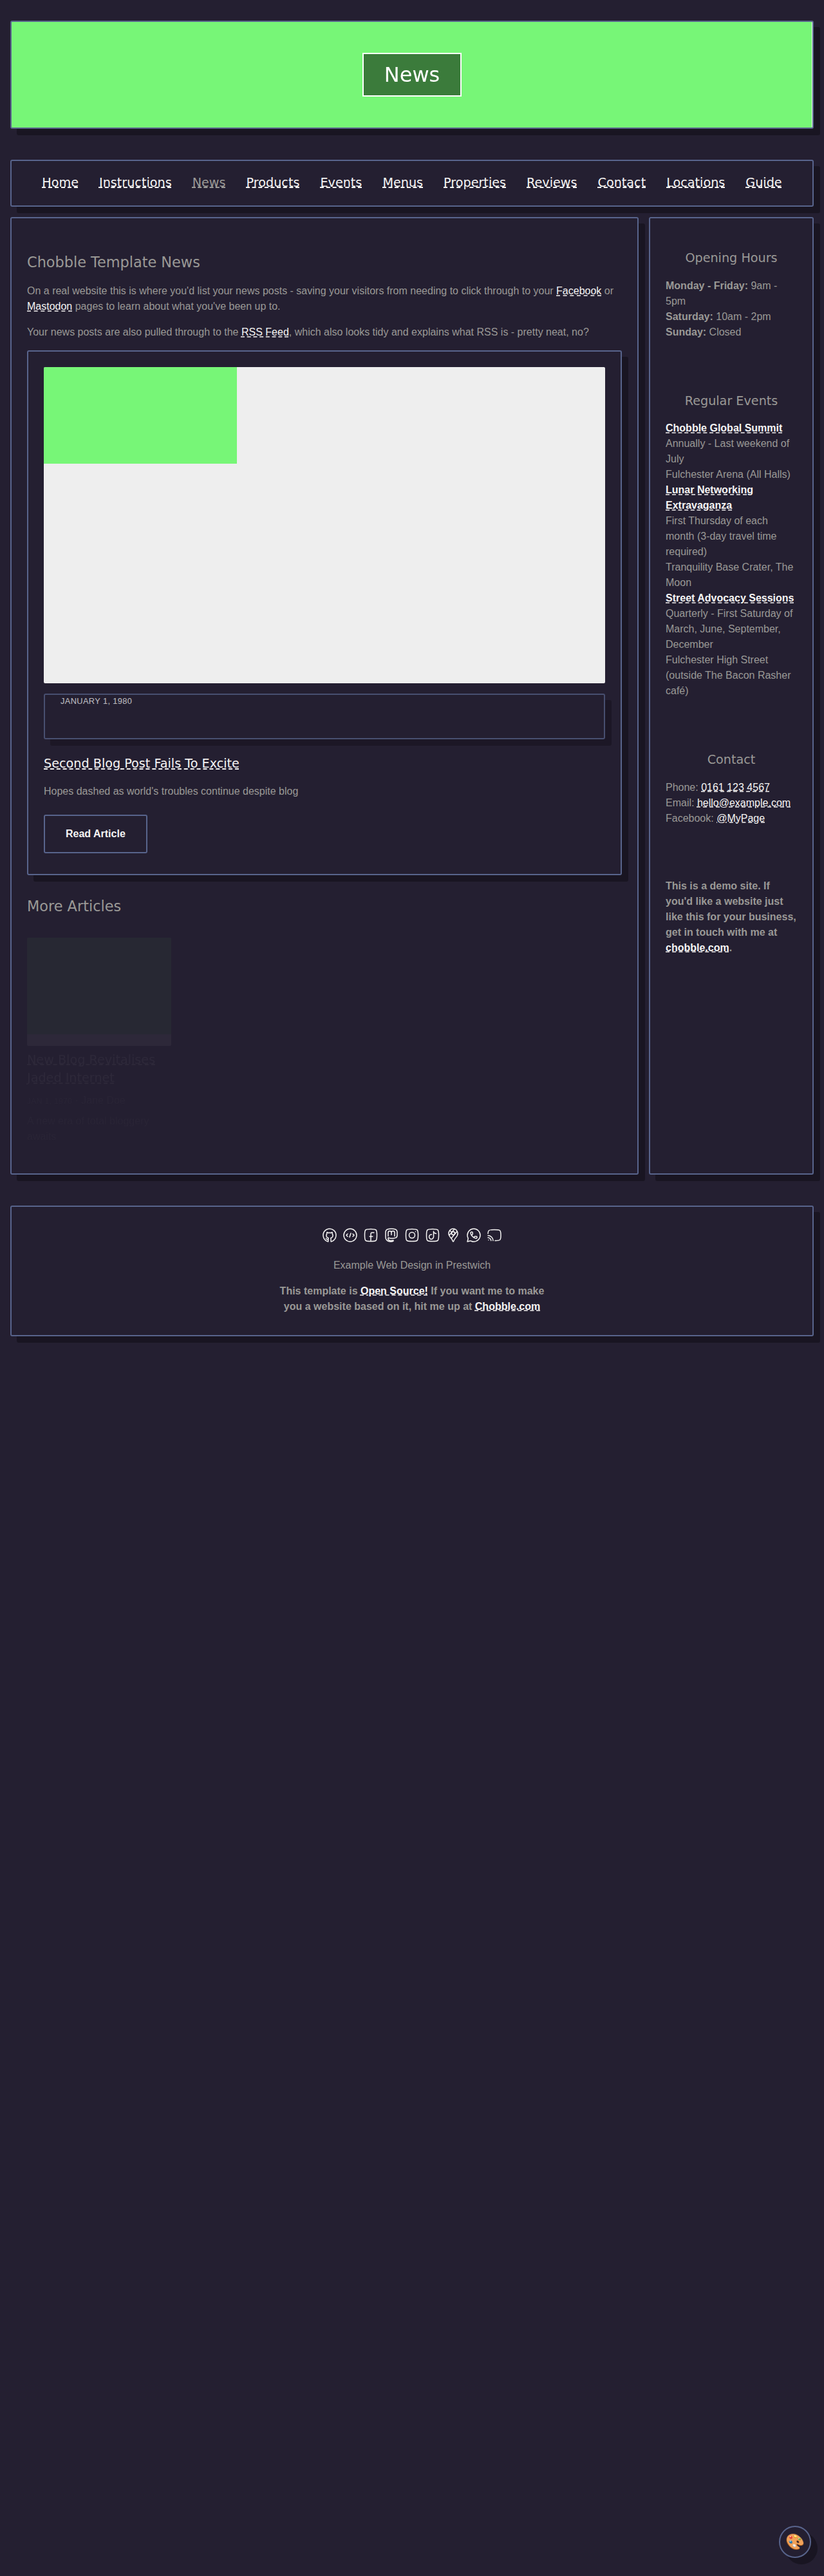
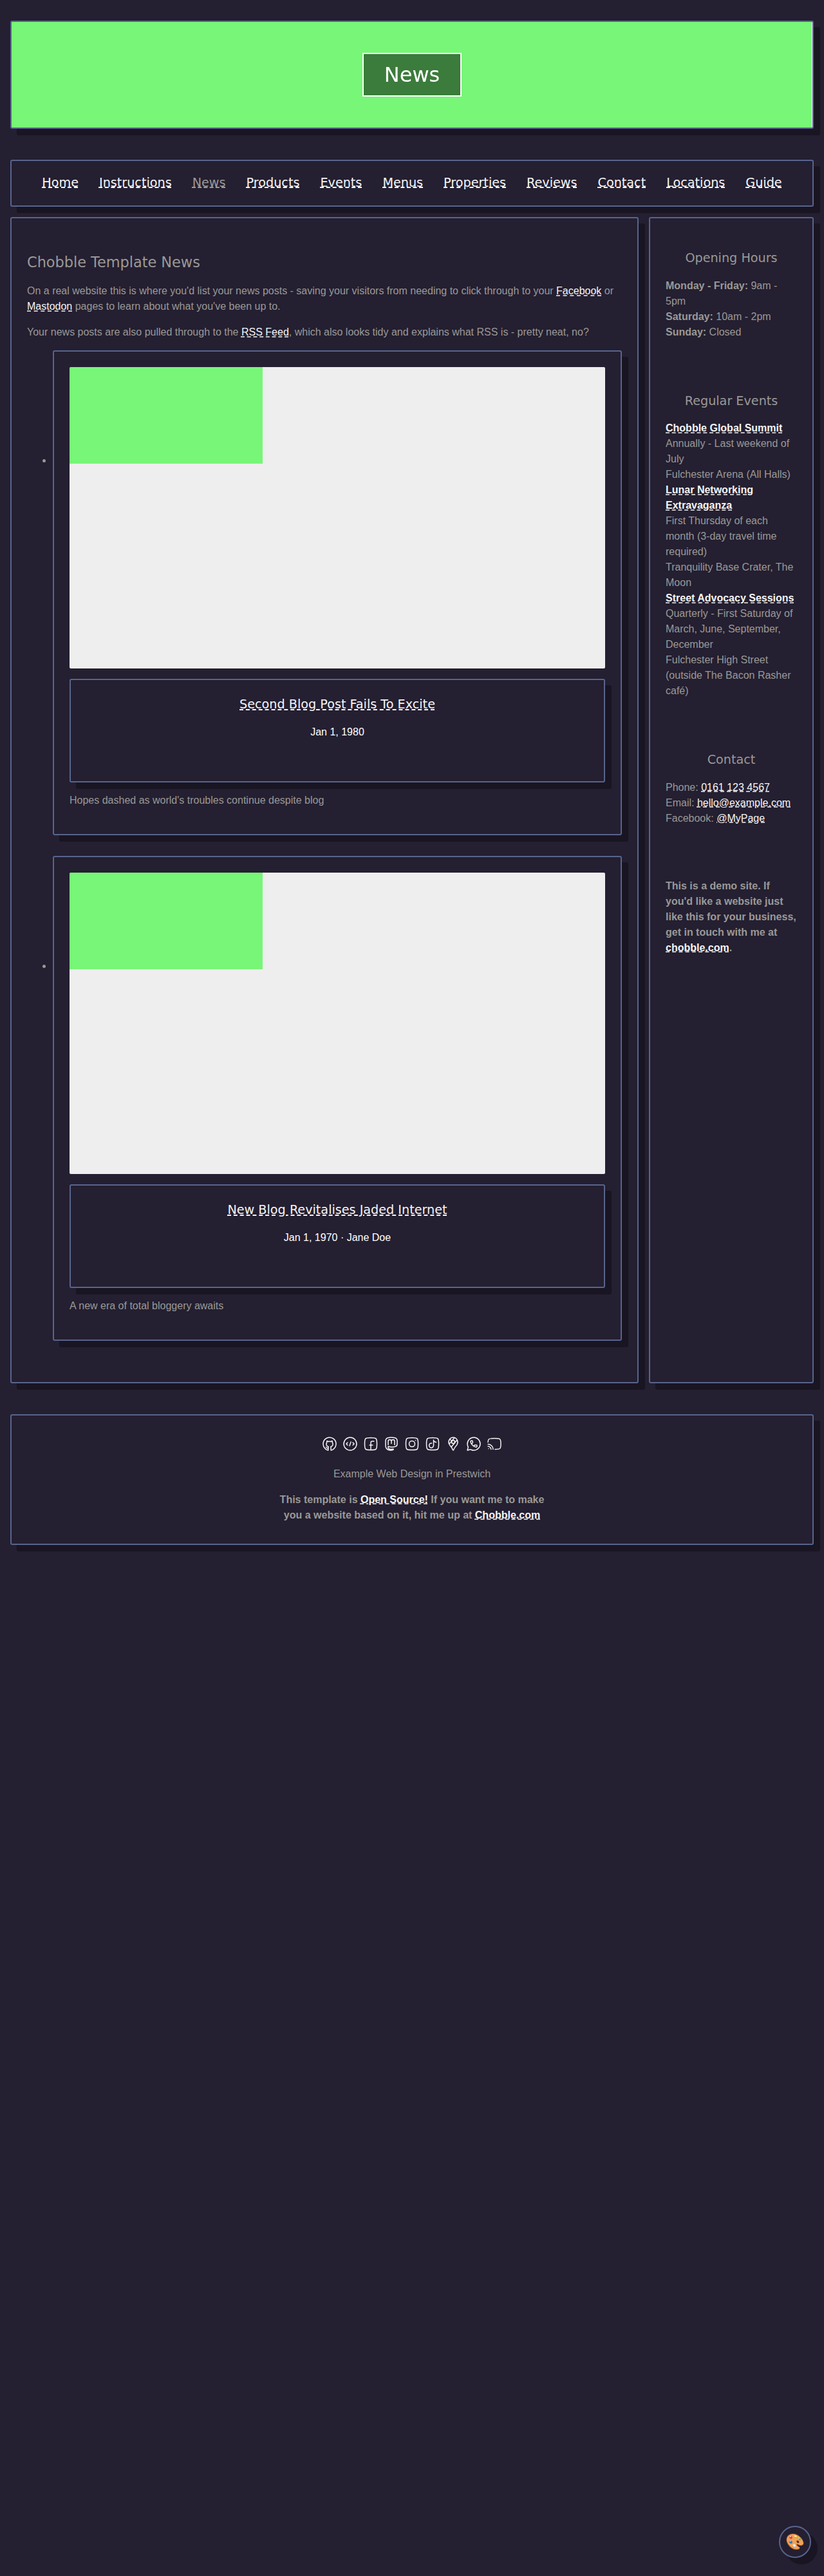
Add image-cards design-system component for news archive
- Create reusable image-cards component with edge-to-edge images
- Simplify news archive to render all posts as cards (no featured)
- Move component to design-system directory
- Remove separate _news.scss (replaced by design-system component)

Changed region(s): [[0.0312, 0.125, 0.75, 0.5312], [0.3438, 0.5625, 0.6562, 0.5938], [0.2812, 0.125, 0.3438, 0.1875]]

diff --git a/src/_layouts/news-archive.html b/src/_layouts/news-archive.html
@@ -8,63 +8,24 @@ layout: base
 
 {%- if posts.size > 0 -%}
   <div class="design-system">
-
-    {%- comment -%} Featured latest post {%- endcomment -%}
-    {%- assign featured = posts | first -%}
-    {%- if featured.data.authorSlug -%}
-      {%- assign featuredAuthor = collections.team | where: "fileSlug", featured.data.authorSlug | first -%}
-    {%- endif -%}
-
-    <article class="split" data-reveal>
-      {%- if featured.data.header_image -%}
-        <figure>
-          <a href="{{ featured.url }}#content">
-            {%- image featured.data.header_image, featured.data.header_text, "400, 600, 800, 1200", "", "", "16/9" -%}
-          </a>
-        </figure>
+  <ul class="image-cards">
+    {%- for post in posts -%}
+      {%- if post.data.authorSlug -%}
+        {%- assign postAuthor = collections.team | where: "fileSlug", post.data.authorSlug | first -%}
+      {%- else -%}
+        {%- assign postAuthor = nil -%}
       {%- endif -%}
-      <div>
-        <header>
-          <time datetime="{{ featured.date | date: '%Y-%m-%d' }}">
-            {{ featured.date | date: "%B %-d, %Y" }}
-          </time>
-          {%- if featuredAuthor -%}
-            <span aria-hidden="true">·</span>
-            <address>
-              <a rel="author" href="{{ featuredAuthor.url }}">
-                {{ featuredAuthor.data.title }}
-              </a>
-            </address>
-          {%- endif -%}
-        </header>
-        <h3>
-          <a href="{{ featured.url }}#content">{{ featured.data.header_text | escape }}</a>
-        </h3>
-        {%- if featured.data.subtitle and featured.data.subtitle != "" -%}
-          <p>{{ featured.data.subtitle | escape }}</p>
-        {%- endif -%}
-        <a href="{{ featured.url }}#content" class="button">Read Article</a>
-      </div>
-    </article>
 
-    {%- comment -%} Older posts grid {%- endcomment -%}
-    {%- assign older_posts = posts | slice: 1, 999 -%}
-    {%- if older_posts.size > 0 -%}
-      <h2>More Articles</h2>
-      <ul class="items">
-        {%- for post in older_posts -%}
-          {%- if post.data.authorSlug -%}
-            {%- assign postAuthor = collections.team | where: "fileSlug", post.data.authorSlug | first -%}
-          {%- else -%}
-            {%- assign postAuthor = nil -%}
+      <li>
+        <article data-reveal>
+          {%- if post.data.header_image -%}
+            <a href="{{ post.url }}#content">
+              <figure>
+                {%- image post.data.header_image, post.data.header_text, "300, 400, 600, 800", "", "", "16/9" -%}
+              </figure>
+            </a>
           {%- endif -%}
-
-          <li data-reveal>
-            {%- if post.data.header_image -%}
-              <a href="{{ post.url }}#content" class="image-link">
-                {%- image post.data.header_image, post.data.header_text, "200, 300, 400, 600", "", "", "4/3" -%}
-              </a>
-            {%- endif -%}
+          <header>
             <h3>
               <a href="{{ post.url }}#content">{{ post.data.header_text | escape }}</a>
             </h3>
@@ -72,14 +33,14 @@ layout: base
               <time datetime="{{ post.date | date: '%Y-%m-%d' }}">{{ post.date | date: "%b %-d, %Y" }}</time>
               {%- if postAuthor %} · {{ postAuthor.data.title }}{%- endif -%}
             </p>
-            {%- if post.data.subtitle and post.data.subtitle != "" -%}
-              <p>{{ post.data.subtitle | escape }}</p>
-            {%- endif -%}
-          </li>
-        {%- endfor -%}
-      </ul>
-    {%- endif -%}
-
+          </header>
+          {%- if post.data.subtitle and post.data.subtitle != "" -%}
+            <p>{{ post.data.subtitle | escape }}</p>
+          {%- endif -%}
+        </article>
+      </li>
+    {%- endfor -%}
+  </ul>
   </div>
 {%- else -%}
   <p>No news articles yet. Check back soon!</p>

diff --git a/src/css/design-system/_image-cards.scss b/src/css/design-system/_image-cards.scss
@@ -1,0 +1,93 @@
+@use "../variables" as *;
+@use "../mixins" as *;
+
+// =============================================================================
+// IMAGE CARDS
+// =============================================================================
+// Cards with edge-to-edge images at top. Used for news, blog posts, etc.
+// Semantic markup: <ul class="image-cards"> with <li> wrapping each <article>
+
+.design-system {
+  ul.image-cards {
+    @include grid-auto(280px, $space-lg);
+    list-style: none;
+    margin: 0;
+    padding: 0;
+
+    > li {
+      margin: 0;
+      padding: 0;
+    }
+
+    article {
+      @include card;
+      @include card-hover;
+      height: 100%;
+      display: flex;
+      flex-direction: column;
+      padding: 0;
+      overflow: hidden;
+
+      // Edge-to-edge image at top
+      > a:first-child {
+        display: block;
+        overflow: hidden;
+
+        figure {
+          margin: 0;
+        }
+
+        img {
+          width: 100%;
+          height: auto;
+          aspect-ratio: 16/9;
+          object-fit: cover;
+          transition: transform $transition-fast;
+        }
+
+        &:hover img {
+          transform: scale(1.05);
+        }
+      }
+
+      // Content area with padding
+      header {
+        padding: $space-md $space-md 0;
+
+        h3 {
+          @include heading-sm;
+          margin: 0 0 $space-xs;
+
+          a {
+            color: var(--text);
+            text-decoration: none;
+
+            &:hover {
+              color: var(--primary);
+            }
+          }
+        }
+
+        p {
+          @include body-sm;
+          color: var(--text-muted);
+          margin: 0;
+
+          time {
+            text-transform: uppercase;
+            letter-spacing: 0.03em;
+          }
+        }
+      }
+
+      // Description/subtitle
+      > p {
+        @include body-sm;
+        color: var(--text-muted);
+        margin: $space-xs 0 0;
+        padding: 0 $space-md $space-md;
+        flex: 1;
+      }
+    }
+  }
+}

diff --git a/src/css/design-system/_index.scss b/src/css/design-system/_index.scss
@@ -29,6 +29,7 @@
 @forward "grid";
 @forward "slider";
 @forward "items";
+@forward "image-cards";
 @forward "code-block";
 @forward "footer";
 

diff --git a/src/css/style.scss b/src/css/style.scss
@@ -1,6 +1,5 @@
 @use "sass:color";
 @use "breakpoints";
-@use "news";
 
 :root {
   --color-bg: #efefef;
